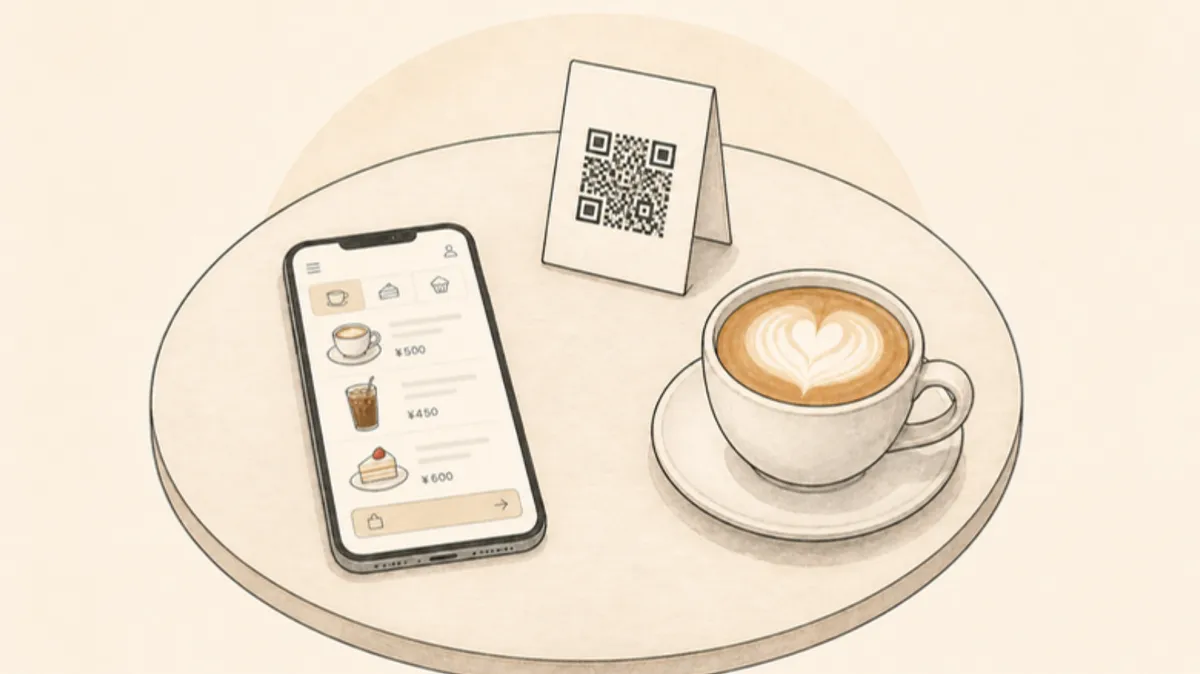
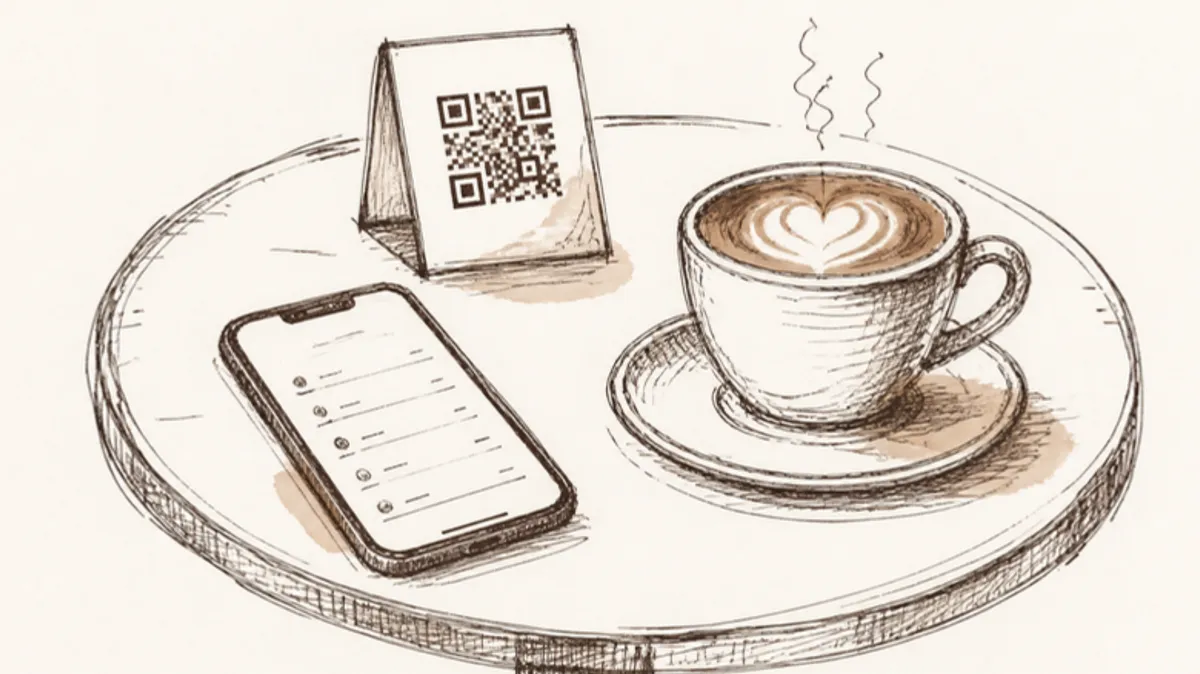
モバイルオーダーの挿絵を手描きスケッチ調に差し替え

diff --git a/content/posts/cafe-mobile-order.md b/content/posts/cafe-mobile-order.md
@@ -48,7 +48,7 @@ products:
 
 飲食店で注文の手間を減らしたいなら、**オーダーシステム（OES）**や**モバイルオーダー**をPOSレジと連携させるのが効果的です。この記事では、それぞれの違いと、POSレジとつなぐメリットを解説します。少ない人数でお店を回していると、注文を取りに行く時間も惜しいですよね。
 
-![カフェのテーブルに置いた、メニューを表示したスマートフォンと、QRコードのスタンド、ラテのイラスト](/images/posts/cafe-mobile-order-1.webp)
+![カフェのテーブルに置いた、メニューを表示したスマートフォンと、QRコードのスタンド、ラテを描いた手描きのスケッチ](/images/posts/cafe-mobile-order-1.webp)
 
 ## オーダーシステム（OES）とモバイルオーダーの違い
 
